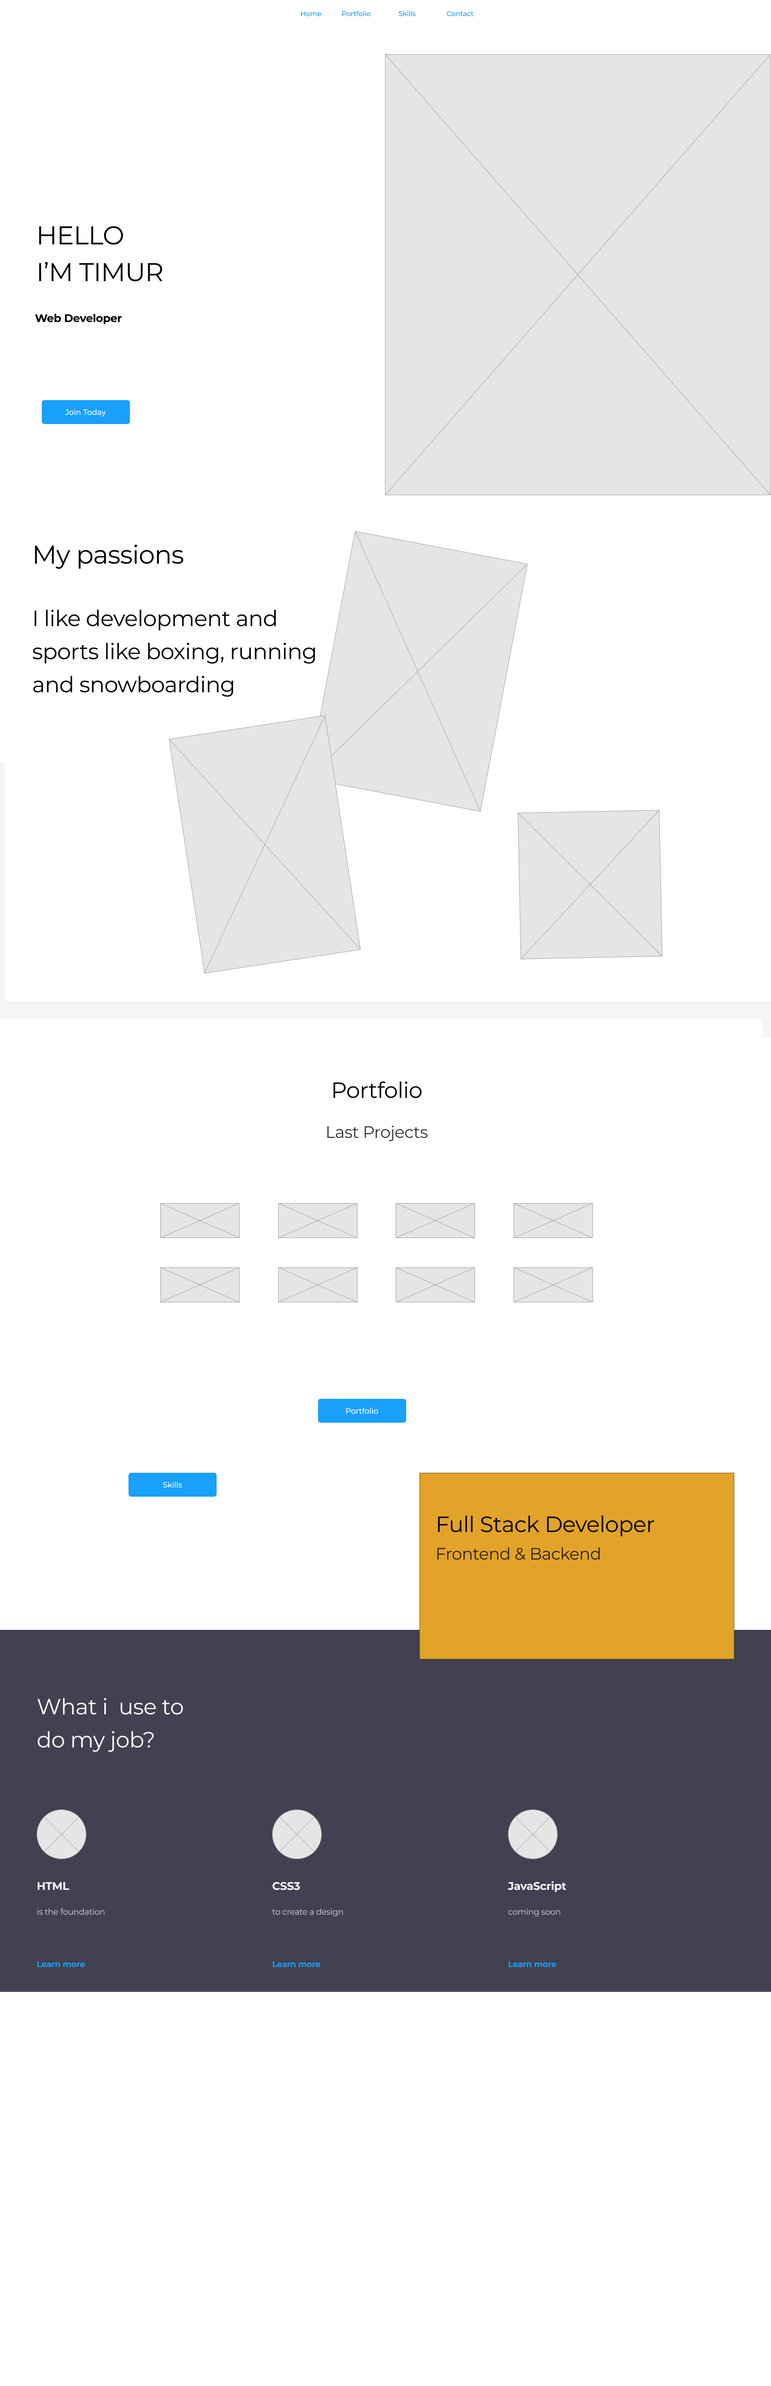
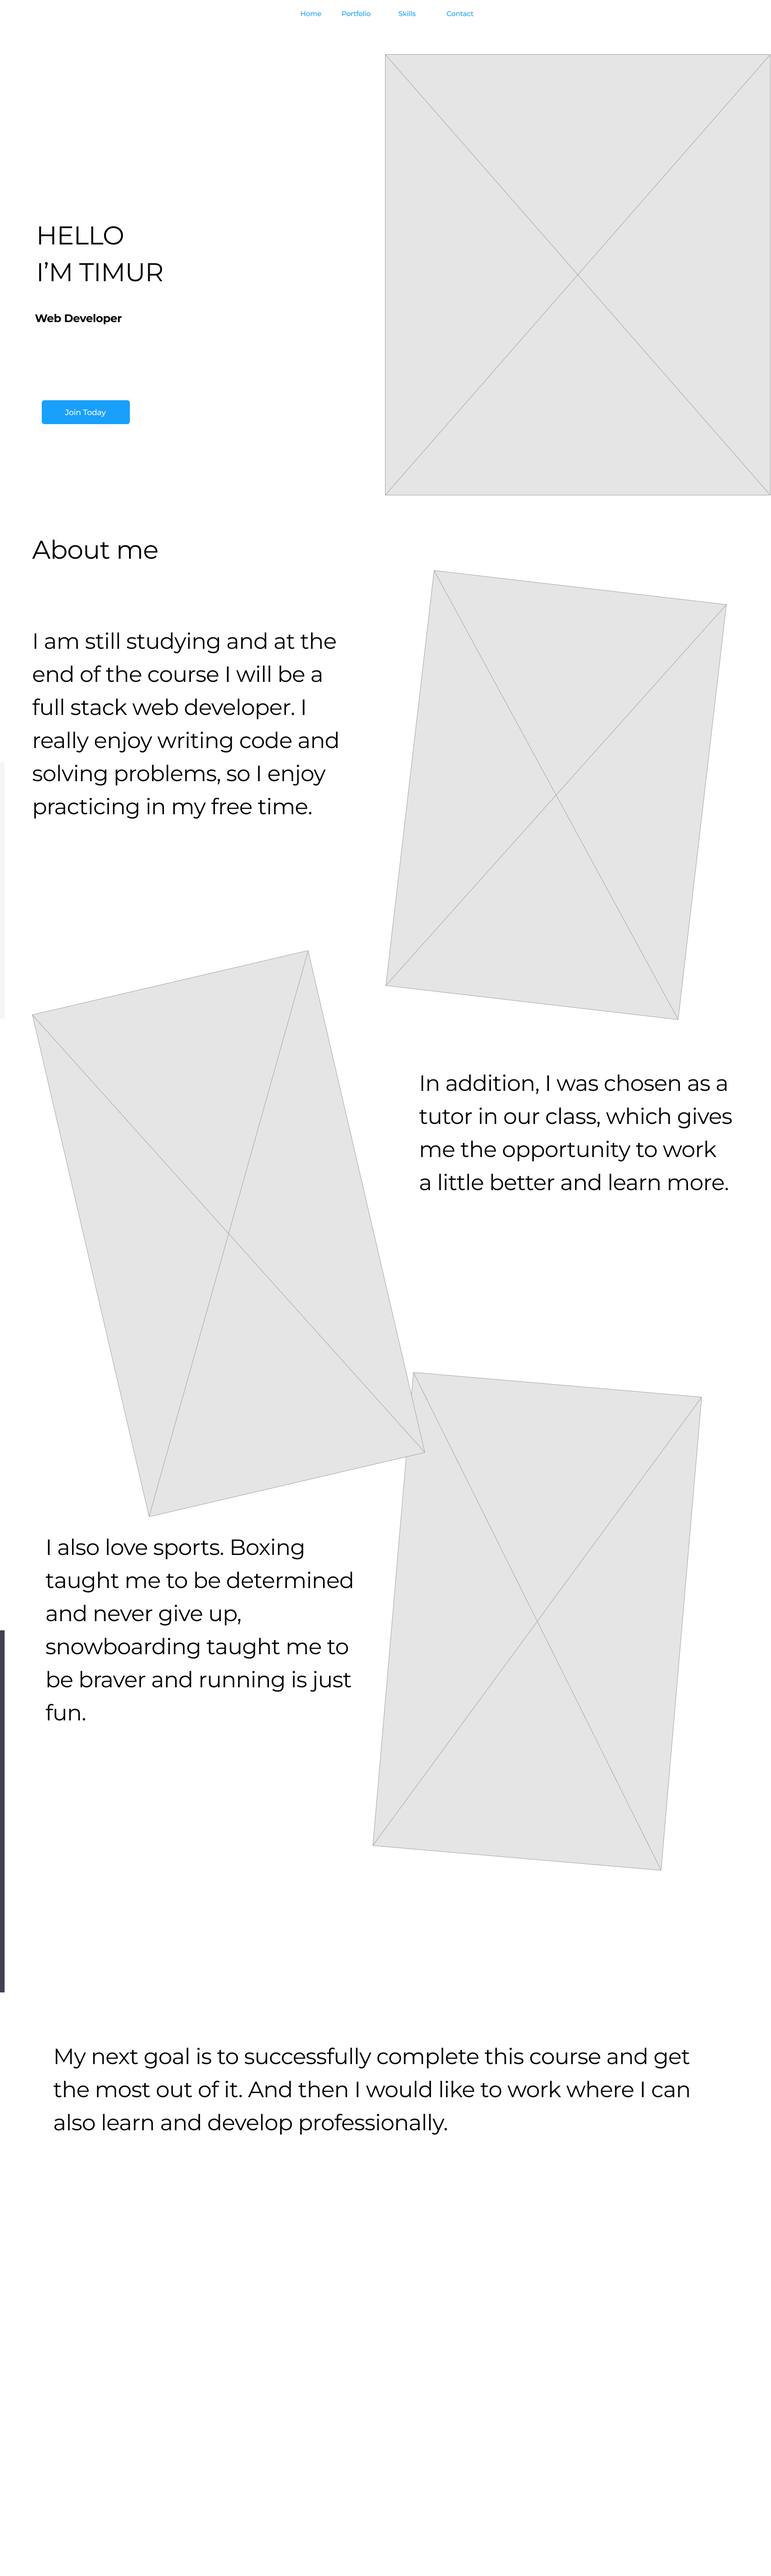
Pics added, Wireframe edited, homepage/header created

diff --git a/index.html b/index.html
@@ -35,49 +35,50 @@
         <li><a href="#">Home</a></li>
         <li><a href="./portfolio.css">Portfolio</a></li>
         <li><a href="/skills.css">Skills</a></li>
-        <li><a href="./contact.css">Contacts</a></li>
+        <li><a href="./contact.css">Contact</a></li>
       </ul>
     </nav>
     <!-- ------------HEADER CONTAINER ----------------->
     <div class="header-container">
       <!-- HEADER FIRST BLOCK -->
-      <div class="header-box">
+      <div class="header-box-1">
         <div>
           <h1><span>Hello</span> <br> I'm Timur</h1>
           <h2><strong>Web Developer</strong></h2>
         </div>
         <ul>
-          <li><a href="#"></a></li>
-          <li><a href="#"></a></li>
+          <li><a href="https://www.instagram.com/timurbeerleen/?hl=de" target="_blank" rel="noopener noreferrer"></a></li>
+          <li><a href="https://www.linkedin.com/in/timur-kokumbaev-3391b7249/" target="_blank" rel="noopener noreferrer"></a></li>
+          <li><a href="https://github.com/TimurKbv" target="_blank" rel="noopener noreferrer"></a></li>
         </ul>
       </div>
 
       <!-- HEADER SECOND BLOCK -->
-      <div class="header-box">
+      <div class="header-box-2">
 
         <a href="#">
-          <div class="header-menu">
+          <div class="header-menu-1">
             <h3>H<span>o</span>me</h3>
             <p>Some words about me.</p>
           </div>
         </a>
 
         <a href="./portfolio.html">
-          <div class="header-menu">
-            <h3>Por<span>t</span>folio</h3>
+          <div class="header-menu-2">
+            <h3>Port<span>f</span>olio</h3>
             <p>My last works.</p>
           </div>
         </a>        
 
         <a href="./skills.html">
-          <div class="header-menu">
-            <h3>Sk<span>i</span>lls</h3>
+          <div class="header-menu-3">
+            <h3>S<span>k</span>ills</h3>
             <p>Something about my skills.</p>
           </div>
         </a>
 
         <a href="./contact.html">
-          <div class="header-menu">
+          <div class="header-menu-4">
             <h3>Co<span>n</span>tact</h3>
             <p>Send me a message.</p>
           </div>
@@ -91,7 +92,41 @@
   </header>
 
   <main>
+    <section class="section-1">
+      <div class="item-1">
+        <h2>About me</h2>
+        <p></p>
+      </div>
+      <div class="item-2">
+        <div class="image"><img src="./img/me-in-the-mountains.jpg" alt="Pic"></div>
+      </div>
+    </section>
 
+    <section class="section-2">
+      <div class="item-1">
+        <div class="image"><img src="./img/me-boxing.PNG" alt="Pic"></div>
+      </div>
+      <div class="item-2">
+        <p></p>
+      </div>
+    </section>
+
+    <section class="section-3">
+      <div class="item-1">
+        <p></p>
+      </div>
+      <div class="item-2">
+        <div class="image"><img src="./img/me-snowboard.PNG" alt="Pic"></div>
+      </div>
+    </section>
+
+    <section class="section-4">
+      <div class="item-1">
+        <p></p>
+      </div>
+      <div class="item-2"></div>
+    </section>
+    <footer></footer>
   </main>
     
 </body>

diff --git a/css/style.css b/css/style.css
@@ -31,12 +31,12 @@ header {
 }
 
 .header-container > div {
-    width: 50%;
+    width: 100%;
     height: 100%;
 } 
 
 /* HEADER FIRST BLOCK */
-.header-box:first-child {
+.header-box-1 {
     display: flex;
     flex-direction: column;
     justify-content: center;
@@ -48,17 +48,17 @@ header {
     background-position: center;
 }
 
-.header-box:first-child h1 {
+.header-box-1 h1 {
     font-size: 5.5em;
     text-align: center;
     color: var(--hell-color);
 }
 
-.header-box:first-child span {
+.header-box-1 span {
     color: var(--orange-color);
 }
 
-.header-box:first-child h2 {
+.header-box-1 h2 {
     margin-top: 30px;
     color: var(--hell-color);
     text-align: center;
@@ -66,27 +66,100 @@ header {
     text-decoration: underline;
 }
 
-.header-box ul {
+.header-box-1 ul {
     margin-top: 35px;
     list-style: none;
     display: flex;
 }
 
-.header-box ul a {
+.header-box-1 ul a {
     color: var(--hell-color);
     font-size: 3em;
     margin: 20px;
 }
 
-.header-box ul li:first-child a::after {
+.header-box-1 ul li:first-child a::after {
     font-family: "FontAwesome";
     content: '\e055';
 }
 
-.header-box ul li:last-child a:after {
+.header-box-1 ul li:nth-child(2) a:after {
     font-family: "FontAwesome";
     content: '\f0e1';
 }
 
+.header-box-1 ul li:last-child a:after {
+    font-family: "FontAwesome";
+    content: '\f09b';
+}
+
 /* HEADER SECOND BLOCK */
+
+.header-box-2 {
+    display: flex;
+    flex-direction: column;
+    justify-content: space-between;
+    gap: 20px;
+
+}
+.header-box-2 a {
+    display: block;
+    height: 100%;
+    overflow: hidden;
+    
+}
+
+.header-box-2 div {
+    width: 100%;
+    height: 100%;
+    display: flex;
+    flex-direction: column;
+    justify-content: center;
+    transition: 0.8s;
+
+    background-size: cover;
+    background-repeat: no-repeat;
+    background-position: center;
+}
+
+.header-box-2 div:hover {
+    transform: scale(1.1);
+}
+
+.header-menu-1 {
+    background-image: url(../img/nav-pic-4.jpg);
+}
+
+.header-menu-2 {
+    background-image: url(../img/nav-pic-1.jpg);
+}
+
+.header-menu-3 {
+    background-image: url(../img/nav-pic-3.jpg);
+}
+
+.header-menu-4 {
+    background-image: url(../img/nav-pic-6.jpg);  
+}
+
+.header-box-2 h3, .header-box-2 p {
+    margin-left: 15%;
+    color: var(--hell-color);
+}
+
+.header-box-2 h3 {
+    font-size: 3em;
+}
+
+.header-box-2 p {
+    font-size: 1.5em;
+    font-style: italic;
+}
+
+.header-box-2 span {
+    color: var(--orange-color);
+}
+
+
+/* --------------------MAIN------------------ */
 
